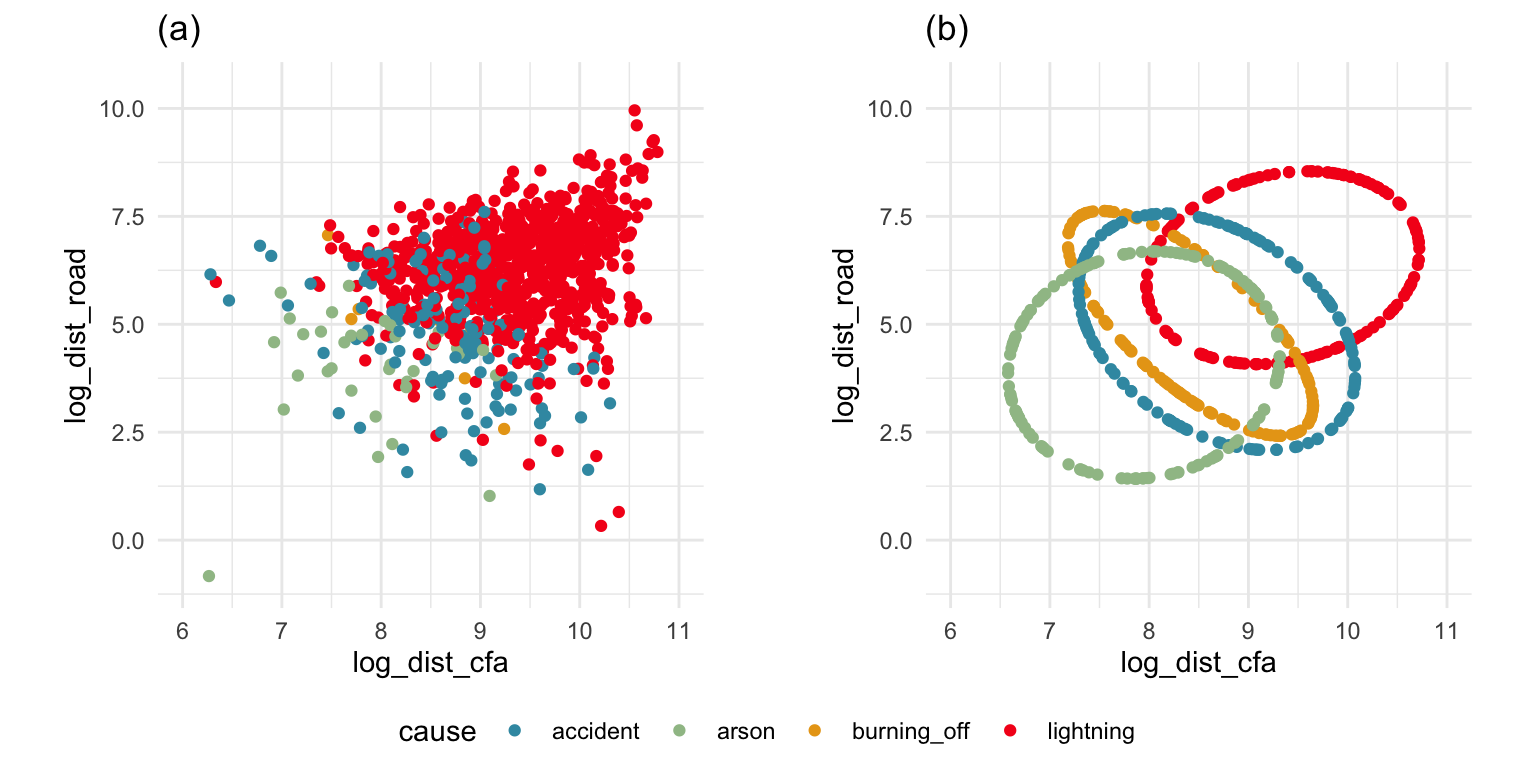
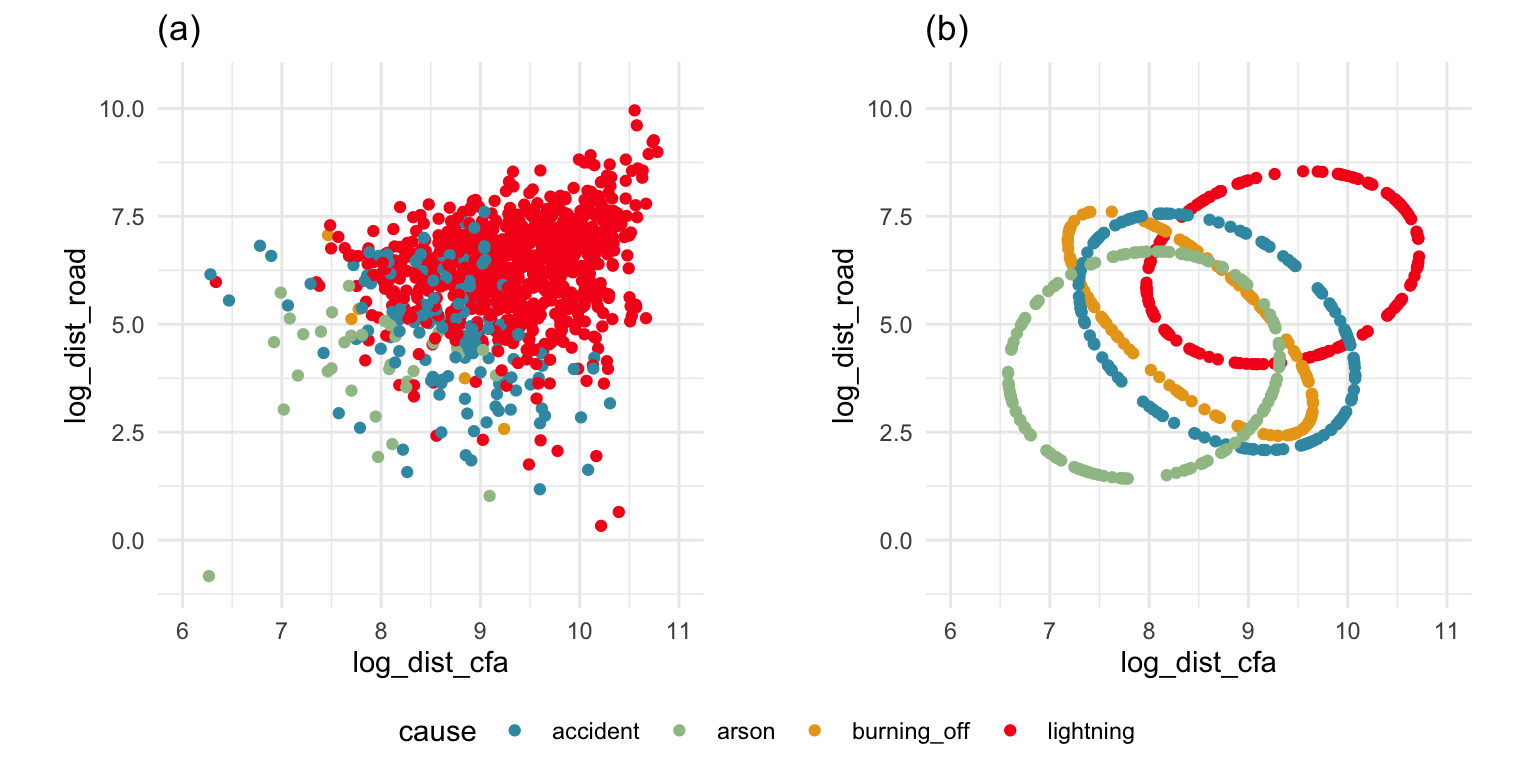
gave gen_vc_ellipse a default mean

diff --git a/docs/LDA.html b/docs/LDA.html
@@ -516,55 +516,6 @@ bm 0.18 0.20 0.16 0.31</code></pre>
 <div class="cell">
 
 </div>
-<!-- Fisher's linear discriminant [@Fi36] computes a linear combination of the variables that separates two classes by comparing the differences between class means with the variance of values within each class. It makes no assumptions about the distribution of the data. 
-
-Linear discriminant analysis (LDA), as proposed by @Rao48, formalizes Fisher's approach, by recognising that it arises from making the assumption that the data values for each class arise from a $p$-dimensional multivariate normal distribution, sharing a common variance-covariance matrix with data from other classes. When this assumption holds, Fisher's linear discriminant gives the optimal separation between the two groups.
-
-For two equally weighted groups, where $Y$ is coded as $\{0, 1\}$, the LDA rule is:
-
-*Allocate a new observation $X_0$ to group 1 if*
-
-$$(\bar{X}_1-\bar{X}_2)'S^{-1}_{\rm pooled}X_0 \geq 
-  \frac{1}{2}(\bar{X}_1-\bar{X}_2)'S^{-1}_{\rm pooled}
-  (\bar{X}_1+\bar{X}_2)$$
-
-*else allocate it to group 2,*
-
-where $\bar{X}_k$ are the class mean vectors of an 
-$n\times p$ data matrix $X_k ~~(k=1,2)$, 
-
-
-$$S_{\rm pooled} = \frac{(n_1-1) S_1}{(n_1-1)+(n_2-1)} + \frac{(n_2-1) S_2}{(n_1-1)+(n_2-1)}$$
-
-is the pooled variance-covariance matrix, and
-
-$$S_k = \frac{1}{n-1}\sum_{i=1}^{n}
-(X_{ki}-\bar{X}_k)(X_{ki}-\bar{X}_k)', ~~k=1,2$$
-
-is the class variance--covariance matrix. The linear
-discriminant part of this rule is
-$(\bar{X}_1-\bar{X}_2)'S^{-1}_{\rm pooled}$, which defines the linear combination of variables that best separates the two groups.  To define a classification rule, we compute the value of the
-new observation $X_0$ on this line and compare it with the value of the average of the two class means $(\bar{X}_1+\bar{X}_2)/2$ on the same line.
-
-For multiple $(g)$ classes, the rule and the discriminant space are constructed using the between-group sum-of-squares matrix,
-
-$$B=\sum_{k=1}^g n_k(\bar{X}_k-\bar{X})(\bar{X}_k-\bar{X})'$$
-
-which measures the differences between the class means, 
-compared with the overall data mean $\bar{X}$ and the within-group sum-of-squares matrix,
-
-$$W =
-\sum_{k=1}^g\sum_{i=1}^{n_k}
-(X_{ki}-\bar{X}_k)(X_{ki}-\bar{X}_k)'$$
-
-which measures the variation of values around each class mean. The linear discriminant space is generated by computing the eigenvectors (canonical coordinates) of $W^{-1}B$, and this is the space where the group means are most separated with respect to the
-pooled variance--covariance. The resulting classification rule is to allocate a new observation to the class with the highest value of
-
-$$\bar{X}_k'S^{-1}_{\rm pooled}X_0 - 
-\frac{1}{2}\bar{X}_k'S^{-1}_{\rm pooled}\bar{X}_k ~~~k=1,...,g$$
-
-which results in allocating the new observation into the
-class with the closest mean.-->
 </section>
 <section id="checking-assumptions" class="level2" data-number="11.2">
 <h2 data-number="11.2" class="anchored" data-anchor-id="checking-assumptions"><span class="header-section-number">11.2</span> Checking assumptions</h2>
@@ -697,6 +648,7 @@ class with the closest mean.-->
 <p></p><figcaption class="figure-caption">Figure&nbsp;11.4: Checking the assumption of equal variance-covariance matrices for the 4D penguins data.</figcaption><p></p>
 </figure>
 </div>
+<p>As a further check, we could generate three ellipses corresponding to the pooled variance-covariance matrix, as would be used in the model, centered at each of the means. Overlay this with the data. Now you will compare the spread of the observations in the data, with the elliptical shape of the pooled variance-covariance. If it matches reasonably we can safely use LDA. This can also be done group by group when multiple groups make it difficult to view all together.</p>
 </section>
 <section id="examining-results" class="level2" data-number="11.3">
 <h2 data-number="11.3" class="anchored" data-anchor-id="examining-results"><span class="header-section-number">11.3</span> Examining results</h2>
